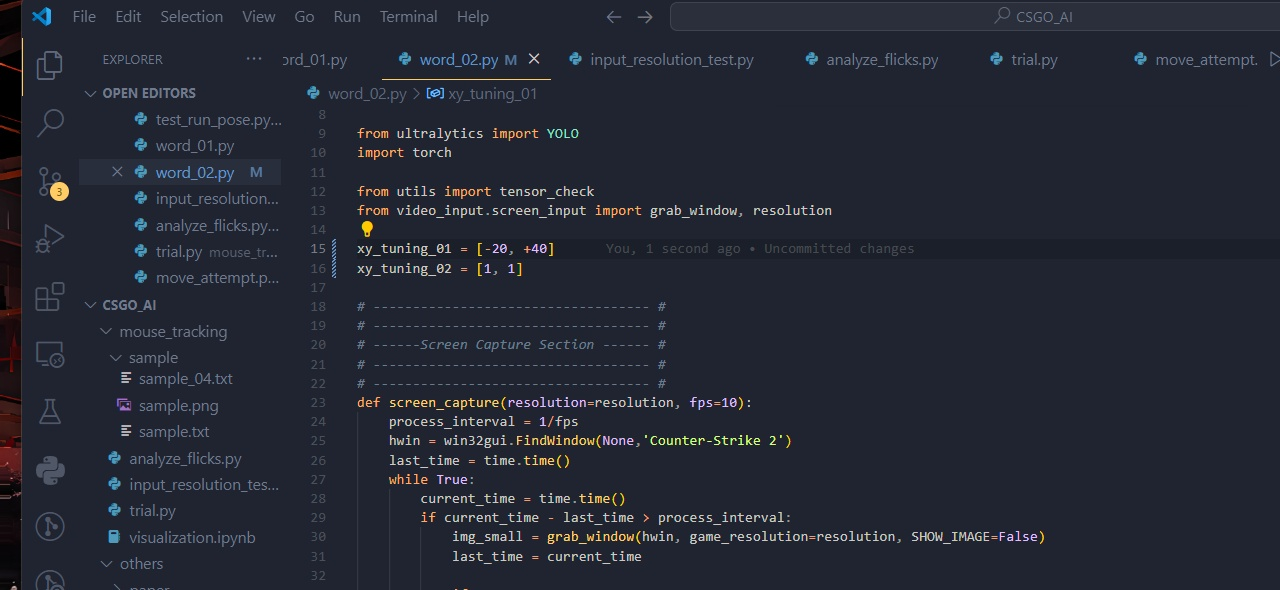
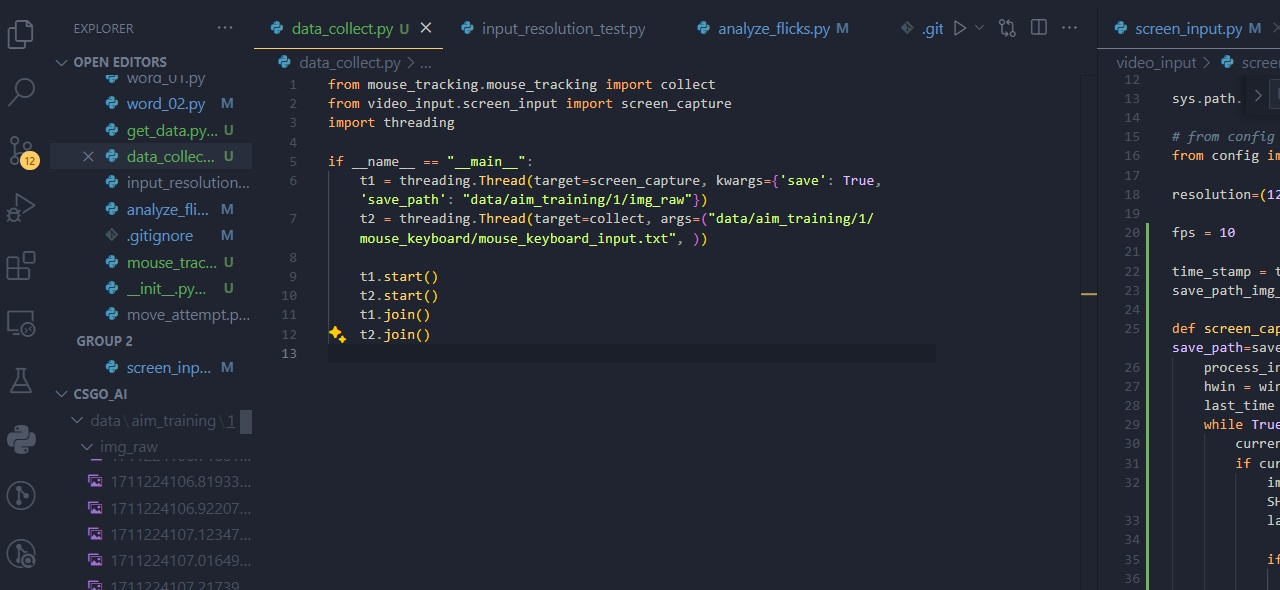
updated code, but haven't figured out a way to collect in-game view state. Should read the paper to learn how other people have done this before #13

diff --git a/mouse_tracking/analyze_flicks.py b/mouse_tracking/analyze_flicks.py
@@ -1,4 +1,5 @@
 import matplotlib.pyplot as plt
+from matplotlib.animation import FuncAnimation
 
 def read_data(file_path):
     x_coords = []
@@ -32,17 +33,99 @@ def process_file(file_path):
     relative_times = calculate_relative_times(timestamps)
     
     return normalized_x, normalized_y, relative_times
-
-for i in range(1, 4):
-    file_path = f'mouse_tracking/sample/flicks/{i}.txt'
-    normalized_x, normalized_y, relative_times = process_file(file_path)
-    # plot out the normalized data x-coordinates vs time_gap
-    plt.plot(normalized_x, relative_times, marker='o', color='r', ls='')
-    plt.savefig(f'mouse_tracking/flick_analysis/{i}_x_to_time.png')
-    plt.close()
     
-    # plot out the normalized data time_gap vs y-coordinates 
-    plt.plot(relative_times, normalized_y, marker='o', color='r', ls='')
-    plt.savefig(f'mouse_tracking/flick_analysis/{i}_time_to_y.png')
-    plt.close()
+def flict_plot_0():
+    plt.figure(figsize=(8, 8))
+    colors = ['r', 'g', 'b']
+    for i in range(1, 4):
+        file_path = f'mouse_tracking/sample/flicks/{i}.txt'
+        normalized_x, normalized_y, relative_times = process_file(file_path)
+        speed_x = [normalized_x[i] - normalized_x[i-1] for i in range(1, len(normalized_x))]
+        # plt.plot(speed_x, relative_times[1:], marker='o', color='r', ls='')
+        
+        def plot_flick():
+            # plot out the normalized data x-coordinates vs time_gap
+            plt.plot(relative_times, normalized_x, marker='o', color=colors[i-1], ls='')
+            # plt.savefig(f'mouse_tracking/flick_analysis/{i}_x_to_time.png')
+            
+            # plot out the normalized data time_gap vs y-coordinates 
+            # plt.plot(relative_times, normalized_y, marker='o', color='r', ls='')
+            # plt.savefig(f'mouse_tracking/flick_analysis/{i}_time_to_y.png')
+            # plt.show()
+        plot_flick()
 
+    plt.show()
+    
+def analyze_flick_trajectory(file_path):
+    """involves separating the flicks into lists of x, y, and timestamps
+
+    Args:
+        file_path (string): input path
+    """
+    x_coords_list = []
+    y_coords_list = []
+    timestamps_list = []
+    x_coords = []
+    y_coords = []
+    timestamps = []
+    with open(file_path, 'r') as file:
+        for line in file:
+            parts = line.strip().split(',')
+            if len(parts) == 4 and parts[1] == "Key.f2":
+                if parts[2] == "released":
+                    x_coords_list.append(x_coords)
+                    y_coords_list.append(y_coords)
+                    timestamps_list.append(timestamps)
+                if parts[2] == "pressed":
+                    x_coords = []
+                    y_coords = []
+                    timestamps = []
+            if len(parts) == 4 and parts[0] == 'mouse':
+                x_coords.append(float(parts[1]))
+                y_coords.append(float(parts[2]))
+                timestamps.append(float(parts[3]))
+
+    # Normalize the data
+    threshold_lower = 15
+    threshold_upper = 100
+    output_x, output_y, output_timestamps = [], [], []
+    for x_coords, y_coords, timestamps in zip(x_coords_list, y_coords_list, timestamps_list):
+        if len(x_coords) < threshold_lower or len(x_coords) > threshold_upper:
+            continue
+        output_x.append(min_max_normalize(x_coords))
+        output_y.append(min_max_normalize(y_coords))
+        output_timestamps.append(calculate_relative_times(timestamps))
+    
+    # Debug
+    # for i in range(len(output_x)):
+    #     print(f"length of x: {len(output_x[i])}, length of y: {len(output_y[i])}, length of timestamps: {len(output_timestamps[i])}")
+    
+    # Plotting            
+    colors = ['r', 'g', 'b']
+    for i in range(1,4):
+        plt.plot(output_timestamps[i], output_x[i], marker='o', color=colors[i-1], ls='')
+        plt.show()
+    
+    # Animation
+    fig, ax = plt.subplots()
+ax.set_xlim(0, 10)  # Set these limits according to your data
+ax.set_ylim(0, 20)
+
+line, = ax.plot([], [], 'r-', animated=True)
+
+def init():
+    line.set_data([], [])
+    return line,
+
+def update(frame):
+    line.set_data(flicks[frame]['x'], flicks[frame]['y'])
+    return line,
+
+ani = FuncAnimation(fig, update, frames=range(len(flicks)), init_func=init, blit=True, repeat=True)
+
+plt.show()
+    
+if __name__ == "__main__":
+    file_path = "data/aim_training/1/mouse_keyboard/mouse_keyboard_input.txt"
+    analyze_flick_trajectory(file_path)
+    

diff --git a/mouse_tracking/mouse_tracking.py b/mouse_tracking/mouse_tracking.py
@@ -12,25 +12,17 @@ is_recording = False
 start_key = keyboard.Key.f2  # Start recording when F2 is pressed
 stop_key = keyboard.Key.f3   # Stop recording when F3 is pressed
 
-folder_name = "mouse_tracking/sample/flicks"
-index = len(os.listdir(folder_name))+1
-file_name = f"{folder_name}/{index}.txt"
-
 def on_move(x, y):
     print(f"Mouse moved to ({x}, {y}) at timestamp {time.time()}")
     if is_recording:
-        index = len(os.listdir(folder_name))+1
-        file_name = f"{folder_name}/{index}.txt"
         # Save the coordinates to a file
         with open(file_name, "a") as file:
             file.write(f"mouse,{x},{y},{time.time()}\n")
 
 def on_click(x, y, button, pressed):
+    action = "pressed" if pressed else "released"
+    print(f"Mouse {action} at ({x}, {y}) with {button} at timestamp {time.time()}")
     if is_recording:
-        index = len(os.listdir(folder_name))+1
-        file_name = f"{folder_name}/{index}.txt"
-        action = "pressed" if pressed else "released"
-        print(f"Mouse {action} at ({x}, {y}) with {button} at timestamp {time.time()}")
         with open(file_name, "a") as file:
             file.write(f"mouse,{x},{y},{button},{action},{time.time()}\n")
 
@@ -38,8 +30,6 @@ def on_press(key):
     global is_recording
     print(f"Key {key} pressed at timestamp {time.time()}")
     if key == start_key:
-        index = len(os.listdir(folder_name))+1
-        file_name = f"{folder_name}/{index}.txt"
         is_recording = True
         print(f"Started recording data...")
     elif key == stop_key:
@@ -55,7 +45,9 @@ def on_release(key):
         with open(file_name, "a") as file:
             file.write(f"key,{key},released,{time.time()}\n")
 
-if __name__ == "__main__":
+def collect(path="data/aim_training/1/mouse_keyboard/mouse_keyboard_input.txt"):
+    global file_name 
+    file_name = path
     # Start the mouse listener to handle mouse events
     mouse_listener = mouse.Listener(on_move=on_move, on_click=on_click)
     mouse_listener.start()
@@ -74,3 +66,19 @@ if __name__ == "__main__":
     # Stop the listeners
     mouse_listener.stop()
     keyboard_listener.stop()
+    
+def test_mouse():
+    mouse_listener = mouse.Listener(on_move=on_move, on_click=on_click)
+    mouse_listener.start()
+    try:
+        while not stop_listeners:
+            time.sleep(0.1)  # Small delay to prevent busy waiting
+    except KeyboardInterrupt:
+        pass  # Allow manual interruption with CTRL+C
+
+    # Stop the listeners
+    mouse_listener.stop()
+
+if __name__ == "__main__":
+    collect()
+    

diff --git a/video_input/screen_input.py b/video_input/screen_input.py
@@ -17,6 +17,45 @@ from config import csgo_img_dimension, IS_CONTRAST
 
 resolution=(1280,720)
 
+fps = 10
+
+time_stamp = time.time()
+save_path_img_raw = "data/aim_training/1/img_raw"
+
+def screen_capture(resolution=resolution, fps=fps, save=False, save_path=save_path_img_raw):
+    process_interval = 1/fps
+    hwin = win32gui.FindWindow(None,'Counter-Strike 2') 
+    last_time = time.time()
+    while True:
+        current_time = time.time()
+        if current_time - last_time > process_interval:
+            img_small = grab_window(hwin, game_resolution=resolution, SHOW_IMAGE=False)
+            last_time = current_time
+            
+            if True:
+                # because we use a shrunk image for input into the NN
+                # we kind of want to make it larger so we can see what's happening
+                # of course it's lossy compared to the original game
+                target_width = 800
+                scale = target_width / img_small.shape[1] # how much to magnify
+                dim = (target_width,int(img_small.shape[0] * scale))
+                scale=1
+                dim = (int(img_small.shape[1]*scale),int(img_small.shape[0]*scale))
+                resized = cv2.resize(img_small, dim, interpolation = cv2.INTER_AREA)
+                time_stamp = time.time()
+                cv2.imshow("result", resized)
+                cv2.imwrite("video_input/temp/temp_02.jpg", resized)
+                if save:
+                    cv2.imwrite(f"{save_path}/{time_stamp}.jpg", resized)
+                
+            # Quite loop if 'o' is pressed
+            if cv2.waitKey(1) & 0xFF == ord('o'):
+                cv2.destroyAllWindows()
+                break
+
+    cv2.destroyAllWindows()
+    return
+
 def grab_window(hwin, game_resolution=(1024,768), SHOW_IMAGE=False):
     '''
     -- Inputs --

diff --git a/word_02.py b/word_02.py
@@ -16,13 +16,15 @@ xy_tuning_01 = [-20, +40]
 xy_tuning_02 = [1, 1]
 fps = 10
 model_path = 'pose_identification/models/YOLOv8l-pose.pt'
+time_stamp = time.time()
+save_path_img_raw = "data/aim_training/1/img_raw"
 
 # ----------------------------------- # 
 # ----------------------------------- # 
 # ------Screen Capture Section ------ # 
 # ----------------------------------- # 
 # ----------------------------------- # 
-def screen_capture(resolution=resolution, fps=fps):
+def screen_capture(resolution=resolution, fps=fps, save=False, save_path=save_path_img):
     process_interval = 1/fps
     hwin = win32gui.FindWindow(None,'Counter-Strike 2') 
     last_time = time.time()
@@ -42,8 +44,11 @@ def screen_capture(resolution=resolution, fps=fps):
                 scale=1
                 dim = (int(img_small.shape[1]*scale),int(img_small.shape[0]*scale))
                 resized = cv2.resize(img_small, dim, interpolation = cv2.INTER_AREA)
+                time_stamp = time.time()
                 cv2.imshow("result", resized)
                 cv2.imwrite("video_input/temp/temp_02.jpg", resized)
+                if save:
+                    cv2.imwrite(f"{save_path}/{time_stamp}.jpg", resized)
                 
             # Quite loop if 'o' is pressed
             if cv2.waitKey(1) & 0xFF == ord('o'):
@@ -66,7 +71,7 @@ def identify_target(result):
     if tensor_check.is_empty_and_matches(keypoints):
         ("No agent identified")
         return
-    
+        
     for person_keypoints in keypoints:
         count = 0
         for x in person_keypoints:

diff --git a/data_collect.py b/data_collect.py
@@ -1,0 +1,13 @@
+from mouse_tracking.mouse_tracking import collect
+from video_input.screen_input import screen_capture
+import threading
+
+if __name__ == "__main__":
+    t1 = threading.Thread(target=screen_capture, kwargs={'save': True, 'save_path': "data/aim_training/1/img_raw"})
+    t2 = threading.Thread(target=collect, args=("data/aim_training/1/mouse_keyboard/mouse_keyboard_input.txt", ))
+
+    t1.start()
+    t2.start()
+    t1.join()
+    t2.join()
+    

diff --git a/demo_analysis/get_data.py b/demo_analysis/get_data.py
@@ -1,0 +1,15 @@
+from awpy import Demo
+import sys
+
+demo_path = "demo/furia-vs-lynn-vision-nuke.dem"
+dem = Demo(file=demo_path)
+
+dem.header
+dem.grenades
+dem.kills
+dem.damages
+dem.bomb
+dem.smokes
+dem.infernos
+dem.weapon_fires
+dem.ticks
